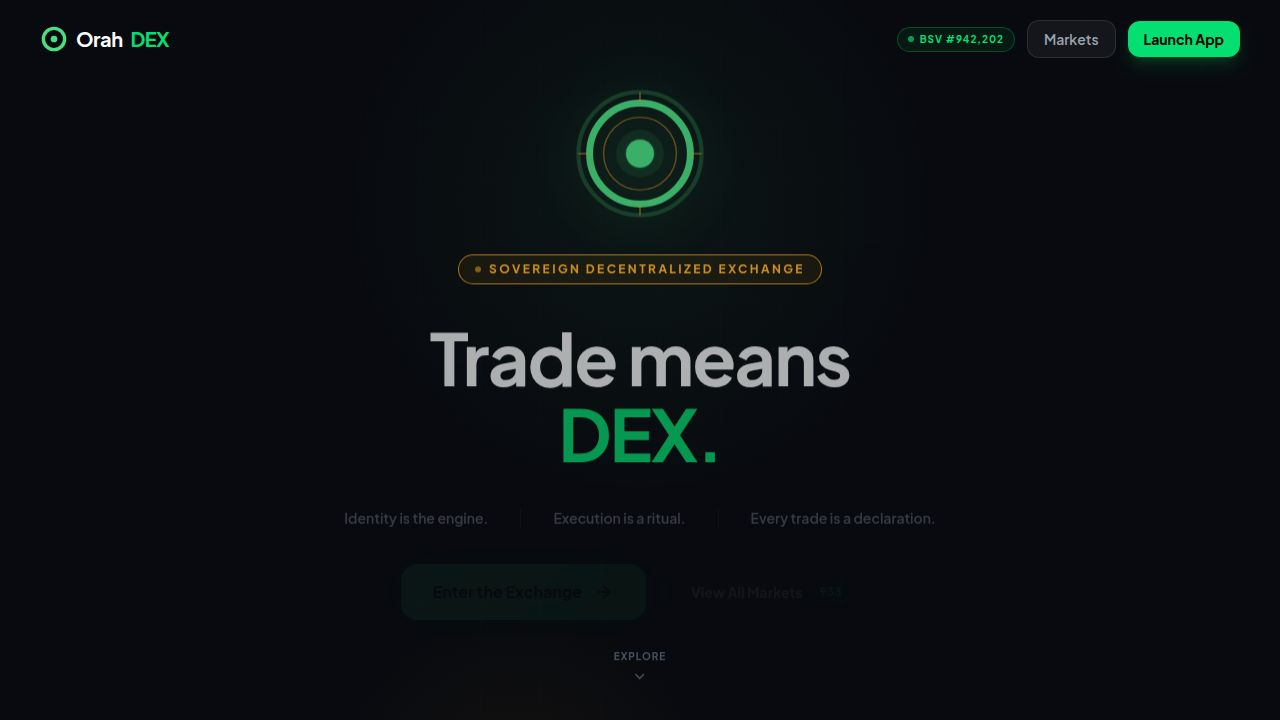
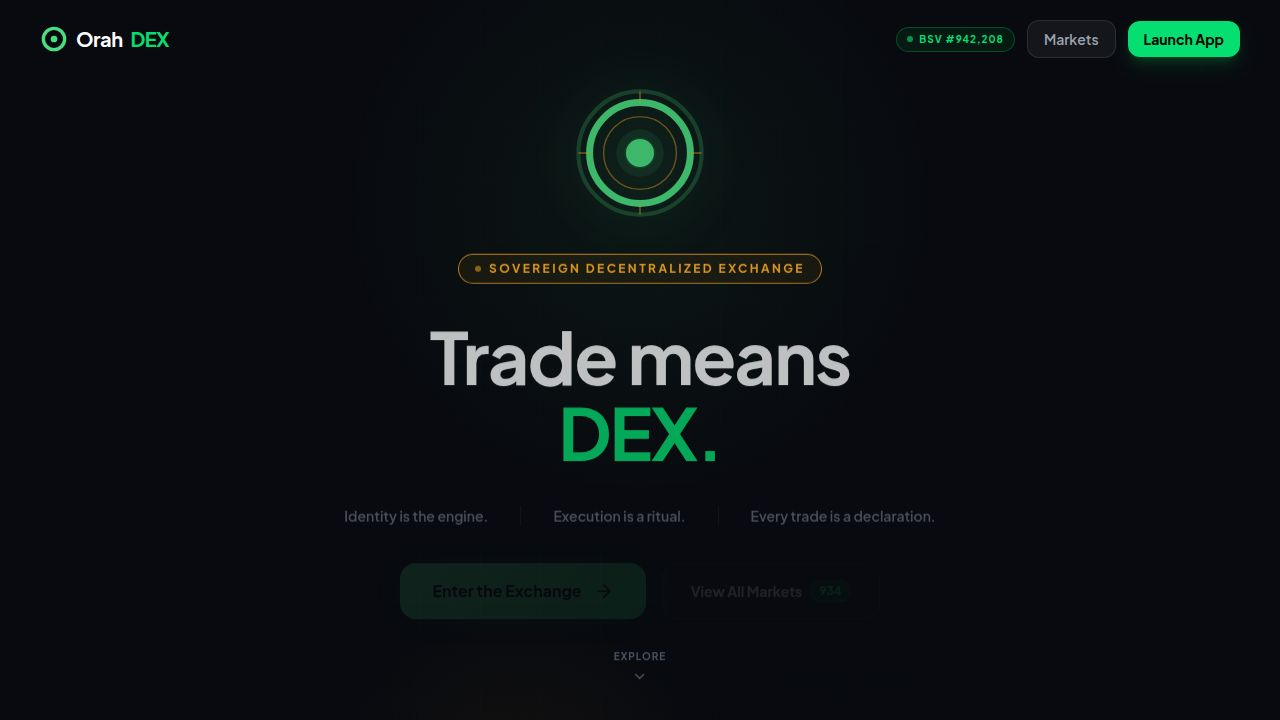
Published your App
Replit-Commit-Author: Deployment
Replit-Commit-Session-Id: 1612e45f-bfa7-465a-9d3d-dd63954a7bc0
Replit-Commit-Checkpoint-Type: full_checkpoint
Replit-Commit-Event-Id: 29ad962e-5d53-41c5-a937-ccd5e364e014
Replit-Commit-Screenshot-Url: https://storage.googleapis.com/screenshot-production-us-central1/748c5e24-ef08-447f-a71b-5e9894ce4896/1612e45f-bfa7-465a-9d3d-dd63954a7bc0/rSkDKRN
Replit-Commit-Deployment-Build-Id: 5a6e7091-0f13-449f-88bc-aef72fe3fc5a
Replit-Helium-Checkpoint-Created: true

diff --git a/artifacts/bsv-dex/src/pages/Landing.tsx b/artifacts/bsv-dex/src/pages/Landing.tsx
@@ -1,7 +1,7 @@
 import { useEffect, useRef, useState } from "react";
 import { Link } from "wouter";
 import { useQuery } from "@tanstack/react-query";
-import { ArrowRight, Zap, Shield, Globe, ChevronDown, ExternalLink } from "lucide-react";
+import { ArrowRight, Zap, Shield, Globe, ChevronDown, ExternalLink, Sparkles, Brain, TrendingUp, TrendingDown, Minus, MessageSquare } from "lucide-react";
 
 const BASE = import.meta.env.BASE_URL.replace(/\/$/, "");
 
@@ -149,17 +149,138 @@ function BsvBlockPill({ blockHeight, blockHash }: { blockHeight: number; blockHa
       href={explorerUrl}
       target="_blank"
       rel="noreferrer"
-      className="group flex flex-col items-center gap-0.5 px-6 py-4 rounded-2xl border border-green-500/25 bg-green-500/6 hover:bg-green-500/10 hover:border-green-500/40 min-w-[130px] transition-all hover:scale-[1.02] cursor-pointer"
+      className="flex flex-col items-center gap-1 px-6 py-4 rounded-2xl border border-green-500/30 bg-green-500/8 hover:bg-green-500/14 hover:border-green-500/50 min-w-[120px] transition-all active:scale-95 cursor-pointer"
     >
-      <span className="text-[9px] uppercase tracking-[0.25em] text-green-500/60 font-bold flex items-center gap-1">
-        Explore
-        <ExternalLink className="w-2.5 h-2.5 opacity-0 group-hover:opacity-100 transition-opacity" />
-      </span>
-      <span className="text-xl font-black text-green-400">
+      <span className="text-2xl font-black text-green-400 leading-none">
         {blockHeight > 0 ? `#${blockHeight.toLocaleString()}` : "Live"}
       </span>
-      <span className="text-[9px] text-gray-500 uppercase tracking-widest font-bold">BSV Block</span>
+      <span className="text-xs text-green-500/70 font-semibold flex items-center gap-1">
+        BSV Block <ExternalLink className="w-3 h-3" />
+      </span>
     </a>
+  );
+}
+
+/* ── Ora AI section ──────────────────────────────────────────────────────── */
+function OraAiSection() {
+  const [insights, setInsights] = useState<{ id: number; content: string; sentiment?: string }[]>([]);
+  const [loading, setLoading] = useState(true);
+
+  useEffect(() => {
+    let cancelled = false;
+    fetch(`${BASE}/api/ai/insights`)
+      .then(r => r.ok ? r.json() : null)
+      .then(data => {
+        if (!cancelled && Array.isArray(data?.insights)) {
+          setInsights(data.insights.slice(0, 3));
+        }
+      })
+      .catch(() => {})
+      .finally(() => { if (!cancelled) setLoading(false); });
+    return () => { cancelled = true; };
+  }, []);
+
+  const sentimentIcon = (s?: string) => {
+    if (s === "bullish") return <TrendingUp className="w-4 h-4 text-green-400 shrink-0 mt-0.5" />;
+    if (s === "bearish") return <TrendingDown className="w-4 h-4 text-red-400 shrink-0 mt-0.5" />;
+    return <Minus className="w-4 h-4 text-gray-400 shrink-0 mt-0.5" />;
+  };
+
+  const sentimentColor = (s?: string) =>
+    s === "bullish" ? "border-green-500/25 bg-green-500/5" :
+    s === "bearish" ? "border-red-500/25 bg-red-500/5" :
+    "border-white/8 bg-white/3";
+
+  const openOra = () => window.dispatchEvent(new CustomEvent("ora:open", { detail: { message: "Give me today's top market intelligence." } }));
+
+  return (
+    <section className="relative px-6 lg:px-10 py-24" style={{ background: "linear-gradient(180deg, rgba(74,222,128,0.02) 0%, transparent 100%)" }}>
+      <div className="max-w-6xl mx-auto">
+        {/* Header */}
+        <div className="text-center mb-12">
+          <span className="inline-flex items-center gap-2 text-xs font-black text-green-400 uppercase tracking-[0.3em] mb-4">
+            <Sparkles className="w-3.5 h-3.5" /> AI Intelligence
+          </span>
+          <h2 className="text-3xl sm:text-4xl font-black text-white mb-4">
+            Meet <span className="text-green-400">Ora</span>
+          </h2>
+          <p className="text-gray-400 max-w-xl mx-auto leading-relaxed">
+            Your AI co-pilot for every trade. Ora monitors 900+ markets in real-time,
+            generates trade signals, spots emerging patterns, and answers your questions
+            instantly — all powered by sovereign intelligence.
+          </p>
+        </div>
+
+        {/* Capabilities row */}
+        <div className="grid grid-cols-1 sm:grid-cols-3 gap-4 mb-10">
+          {[
+            { icon: Brain, label: "Market Intelligence", desc: "Real-time analysis across every pair. Ora spots breakouts, volume surges, and sentiment shifts before they happen.", color: "#4ade80" },
+            { icon: TrendingUp, label: "Trade Signals", desc: "Buy, sell, or hold signals for every major pair — with confidence scores and Ora's reasoning behind each call.", color: "#F5A623" },
+            { icon: MessageSquare, label: "Always Available", desc: "Ask Ora anything: price targets, portfolio breakdowns, chart explanations, or what a BSV settlement actually means.", color: "#60a5fa" },
+          ].map(({ icon: Icon, label, desc, color }) => (
+            <div key={label} className="flex flex-col gap-3 p-5 rounded-2xl border border-white/8 bg-white/3 hover:bg-white/5 transition-colors">
+              <div className="w-9 h-9 rounded-xl flex items-center justify-center" style={{ background: `${color}18`, border: `1px solid ${color}30` }}>
+                <Icon className="w-4.5 h-4.5" style={{ color }} />
+              </div>
+              <div>
+                <p className="font-bold text-white text-sm mb-1">{label}</p>
+                <p className="text-xs text-gray-400 leading-relaxed">{desc}</p>
+              </div>
+            </div>
+          ))}
+        </div>
+
+        {/* Live insights */}
+        <div className="rounded-2xl border border-green-500/15 bg-green-500/4 p-6 mb-8">
+          <div className="flex items-center gap-2 mb-5">
+            <Sparkles className="w-4 h-4 text-green-400" />
+            <span className="text-sm font-black text-white">Live Market Insights</span>
+            <span className="ml-auto text-[10px] text-green-500/60 font-bold uppercase tracking-wider">Powered by Ora</span>
+          </div>
+
+          {loading ? (
+            <div className="flex flex-col gap-3">
+              {[1, 2, 3].map(i => (
+                <div key={i} className="h-12 rounded-xl bg-white/4 animate-pulse" />
+              ))}
+            </div>
+          ) : insights.length > 0 ? (
+            <div className="flex flex-col gap-3">
+              {insights.map(ins => (
+                <div key={ins.id} className={`flex items-start gap-3 p-4 rounded-xl border ${sentimentColor(ins.sentiment)}`}>
+                  {sentimentIcon(ins.sentiment)}
+                  <p className="text-sm text-gray-300 leading-relaxed">{ins.content}</p>
+                </div>
+              ))}
+            </div>
+          ) : (
+            <div className="flex items-center gap-3 p-4 rounded-xl border border-white/8 bg-white/3">
+              <Sparkles className="w-4 h-4 text-green-400 shrink-0" />
+              <p className="text-sm text-gray-400">Ora is analysing the markets. Insights will appear shortly.</p>
+            </div>
+          )}
+        </div>
+
+        {/* CTA */}
+        <div className="flex flex-col sm:flex-row items-center gap-4 justify-center">
+          <button
+            onClick={openOra}
+            className="group flex items-center gap-3 px-8 py-4 rounded-2xl font-black text-black transition-all hover:scale-[1.02] hover:shadow-2xl active:scale-95"
+            style={{ background: "linear-gradient(135deg, #4ade80, #22c55e)", boxShadow: "0 0 40px rgba(74,222,128,0.3)" }}
+          >
+            <Sparkles className="w-5 h-5" />
+            Chat with Ora
+            <ArrowRight className="w-4 h-4 group-hover:translate-x-1 transition-transform" />
+          </button>
+          <Link
+            href="/trade/BSV-USDT"
+            className="flex items-center gap-2 px-8 py-4 rounded-2xl font-bold text-white border border-white/12 hover:bg-white/6 transition-all text-sm"
+          >
+            View Trade Signals <ArrowRight className="w-4 h-4" />
+          </Link>
+        </div>
+      </div>
+    </section>
   );
 }
 
@@ -295,7 +416,7 @@ export function LandingPage() {
           </div>
 
           {/* Live stats bar */}
-          <div className={`flex flex-wrap justify-center gap-3 transition-all duration-700 ${entered ? "opacity-100 translate-y-0" : "opacity-0 translate-y-4"}`}
+          <div className={`grid grid-cols-2 sm:flex sm:flex-wrap justify-center gap-3 transition-all duration-700 ${entered ? "opacity-100 translate-y-0" : "opacity-0 translate-y-4"}`}
             style={{ transitionDelay: "600ms" }}>
             <StatPill label="Markets" value={marketCount.toLocaleString()} />
             <StatPill label="Chains" value="20+" color="text-amber-400" />
@@ -374,6 +495,9 @@ export function LandingPage() {
           </div>
         </div>
       </section>
+
+      {/* ── ORA AI ───────────────────────────────────────────────────────── */}
+      <OraAiSection />
 
       {/* ── ARCHITECTURE ──────────────────────────────────────────────────── */}
       <section className="relative px-6 lg:px-10 py-24" style={{ background: "rgba(255,255,255,0.01)" }}>